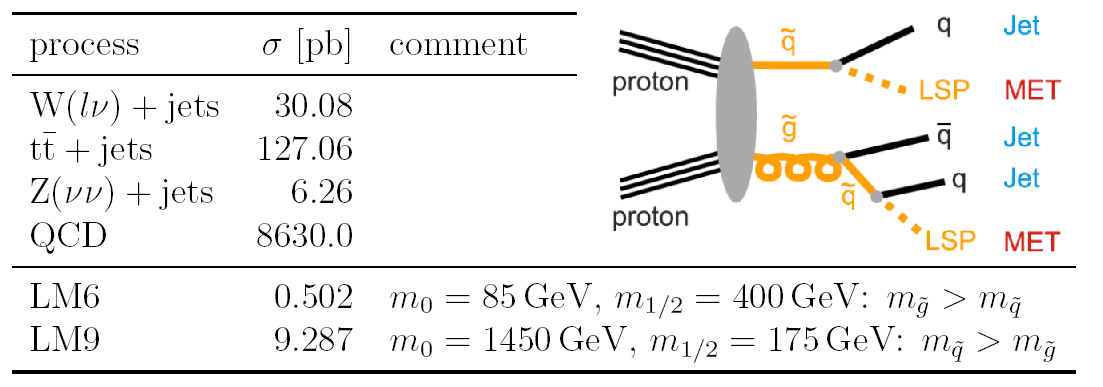
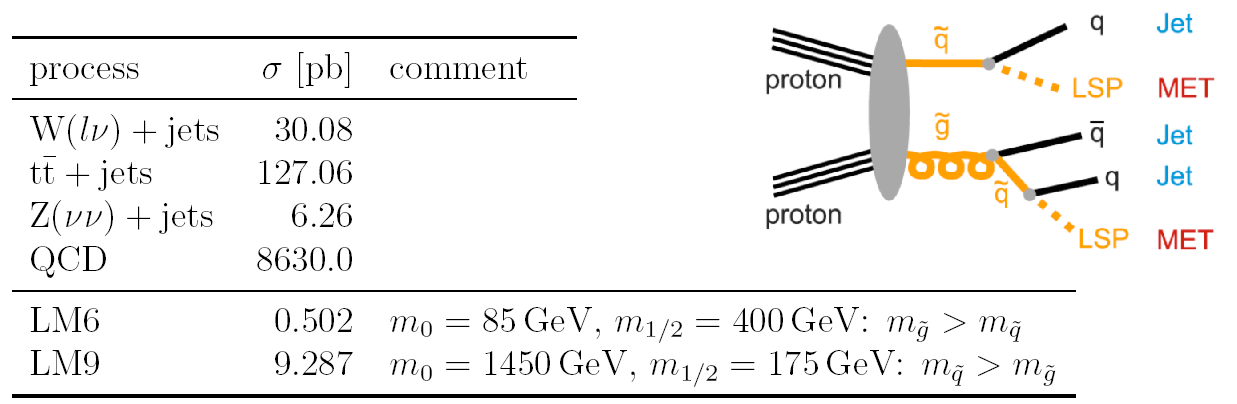
blabla

Changed region(s): [[0.0, 0.031, 0.9864, 0.9922], [0.5549, 0.031, 0.9864, 0.5891], [0.8323, 0.5581, 0.9864, 0.6512]]

diff --git a/Section1.tex b/Section1.tex
@@ -1,10 +1,11 @@
 %--- Jens:
 
 \begin{frame}{SUSY theorie}
+\section{SUSY theorie}
 \begin{itemize}
-\item symmetrie under spin transformation\\
-\item MSSM has minimal new particles but over 100 free parameters\\
-\item might solve GUT's and explains dark matter\\
+\item symmetry under spin transformation\\
+\item MSSM: model with fewest new particles% but $10^2$ free parameters\\
+\item might solve GUTs and explains dark matter\\
 \item quarks \& leptons $\rightarrow$ squarks \& sleptons (spin 0)\\
 \item gauge bosons $\rightarrow$ gauginos (spin 1/2) 
 \end{itemize}
@@ -12,20 +13,17 @@
 \begin{figure}[B]
 	\centering
 	 \includegraphics[width=1\textwidth,]{figures/mssm.png}
-	\caption{Minimal supersymmetric standard model MSSM.
-	 \begin{tiny}
-	\qquad\qquad\qquad\qquad\qquad\qquad\qquad\qquad\qquad\qquad 
+	\caption{\begin{tiny}
 	source:  http://inspirehep.net/record/1407182/files/SUSY.png
 	\end{tiny}}
 \end{figure}
 
 \end{frame}
 
-
 \begin{frame}{LM6 \& LM9}
-
+\section{LM6 \& LM9}
 \begin{itemize}
-\item concrete parameter setups leads to different branching ratios\\
+\item benchmark models leads to different branching ratios \& behaviours\\
 \item LM6 \& LM9 have relative high cross sections\\ 
 \item SUSY-processes: squark \& gluino pair production
 \end{itemize}
@@ -38,13 +36,14 @@
 
 \end{frame}
 
-\begin{frame}{SUSY im Detektor /Feynmangraphen, bkg-Prozesse  }
+\begin{frame}{SUSY im Detektor}
+\section{SUSY im Detektor}
 
 \begin{itemize}
 \item quantum number $R=(-1)^{3B+L+2S} \quad R_{SM}=+1 \quad R_{SUSY}=-1$ \\
 \item conservation of R-parity leads to stable ligthtest supersymmetric particles (LSP)\\
-\item LSP is only weak interacting, detectable via $\slashed{H}_T$ \\
-\item 2 susy processes: \quad $\tilde{g} \rightarrow \bar{q}+\tilde{q}$\\%;\quad  \tilde{q} \rightarrow q + LSP$; \quad leading to high $H_T$ and many jets\\
+\item LSP is only weak interacting, reconstructable via $\slashed{H}_T$ \\
+\item SUSY decays: \quad $\tilde{g} \rightarrow q +\tilde{q};\quad  \tilde{q} \rightarrow q + LSP;$\\ % \quad leading to high $H_T$ and many jets\\ 
 \item background: all processes with high $H_T, \slashed{H}_T$ and many jets:
 $W(l\nu)+jets, Z(\nu\nu)+jets, t\bar{t}+jets, QCD$ 
 
@@ -52,9 +51,7 @@ $W(l\nu)+jets, Z(\nu\nu)+jets, t\bar{t}+jets, QCD$
 
 \begin{figure}[H]
 	\centering
-	 \includegraphics[width=0.8\textwidth,]{figures/feynman+bkg.png}
+	 \includegraphics[width=\textwidth,]{figures/feynman+bkg.png}
 \end{figure}
 \end{frame}
-
-
 
